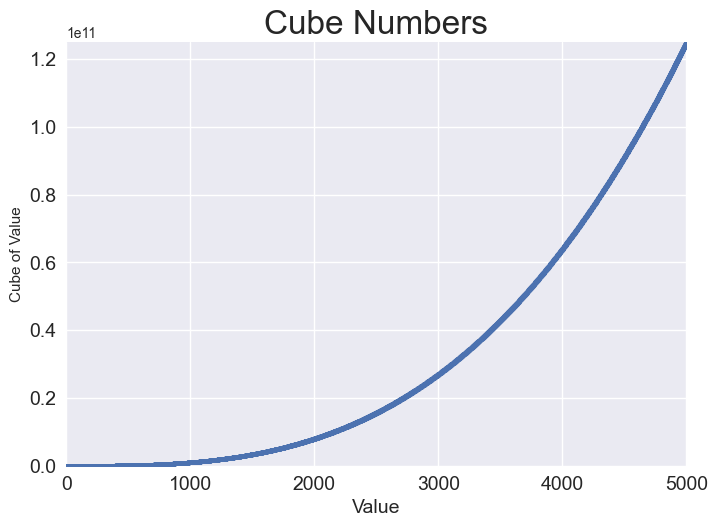
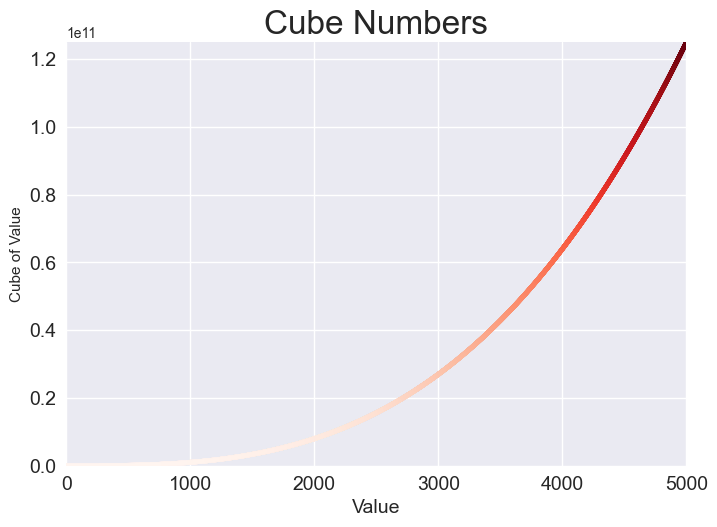
Creating random walks

diff --git a/random_walk.py b/random_walk.py
@@ -1,0 +1,38 @@
+from random import choice 
+
+class RandomWalk:
+    """A class to generate a random walks"""
+
+    def __init__(self, num_points=5000):
+        """Initalize walk attributes"""
+        self.num_points = num_points
+
+    # All walks start at (0, 0).
+        self.x_values = [0]
+        self.y_values = [0]
+
+    def fill_walk(self):
+        """Calculate all the points in the walk."""
+        # Keep taking steps unitl the walk reaches the desired length
+        while len(self.x_values) < self.num_points:
+
+            # Decide which direction to go and how far to go in that direction.
+            x_step = self.get_step()
+            y_step = self.get_step()
+
+            # Reject moves that go nowhere.
+            if x_step == 0 and y_step == 0:
+                continue
+
+            # Calculate the new position.
+            x = self.x_values[-1] + x_step
+            y = self.y_values[-1] + y_step
+
+            self.x_values.append(x)
+            self.y_values.append(y)
+
+    def get_step(self):
+        """Decide which direction to go and how afr to go in that direction"""
+        direction = choice([1, -1])
+        distance = ([0, 1, 2, 3, 4])
+        return direction * distance

diff --git a/rw_visual.py b/rw_visual.py
@@ -1,0 +1,30 @@
+import matplotlib.pyplot as plt
+
+from random_walk import RandomWalk
+
+# Keep making new walks, as long as the program is active.
+while True:
+# Make a random walk.
+    rw = RandomWalk()
+    rw.fill_walk()
+
+# Plot the points in the walk.
+    plt.style.use('classic')
+    fig, ax = plt.subplots(figsize=(15, 9))
+    point_numbers = range(rw.num_points)
+    ax.plot(rw.x_values, rw.y_values, linewidth=3)
+
+    # Emphasize the first and last points.
+    ax.scatter(0, 0, c='green', edgecolors='none', s=100)
+    ax.scatter(rw.x_values[-1], rw.y_values[-1], c='red', edgecolors='none', s=1)
+
+    # Remove the axes
+    ax.get_xaxis().set_visible(False)
+    ax.get_yaxis().set_visible(False)
+
+    plt.savefig('random_walk.png', bbox_inches='tight')
+
+    
+    keep_running = input("Make another walk? (y/n): ")
+    if keep_running == 'n':
+        break

diff --git a/cubes.py b/cubes.py
@@ -7,7 +7,7 @@ y_values = [x**3 for x in x_values]
 #Plot
 plt.style.use('seaborn-v0_8')
 fig, ax = plt.subplots()
-ax.scatter(x_values, y_values, s=10)
+ax.scatter(x_values, y_values,c=y_values, cmap=plt.cm.Reds, s=10)
 
 # Set chart title and label axis.
 ax.set_title("Cube Numbers", fontsize=24)
@@ -20,4 +20,4 @@ ax.tick_params(axis='both', which='major', labelsize=14)
 #Set the range for each axis.
 ax.axis([0, 5000, 0, 125000000000])
 
-plt.savefig('cubes_plot.png', bbox_inches='tight')
+plt.show()

diff --git a/scatter_squares.py b/scatter_squares.py
@@ -19,5 +19,5 @@ ax.tick_params(axis='both', which='major', labelsize=14)
 #Set the range for each axis.
 ax.axis([0, 1100, 0, 1100000])
 
-plt.savefig('squares_plot.png', bbox_inches='tight')
+plt.show()
 
